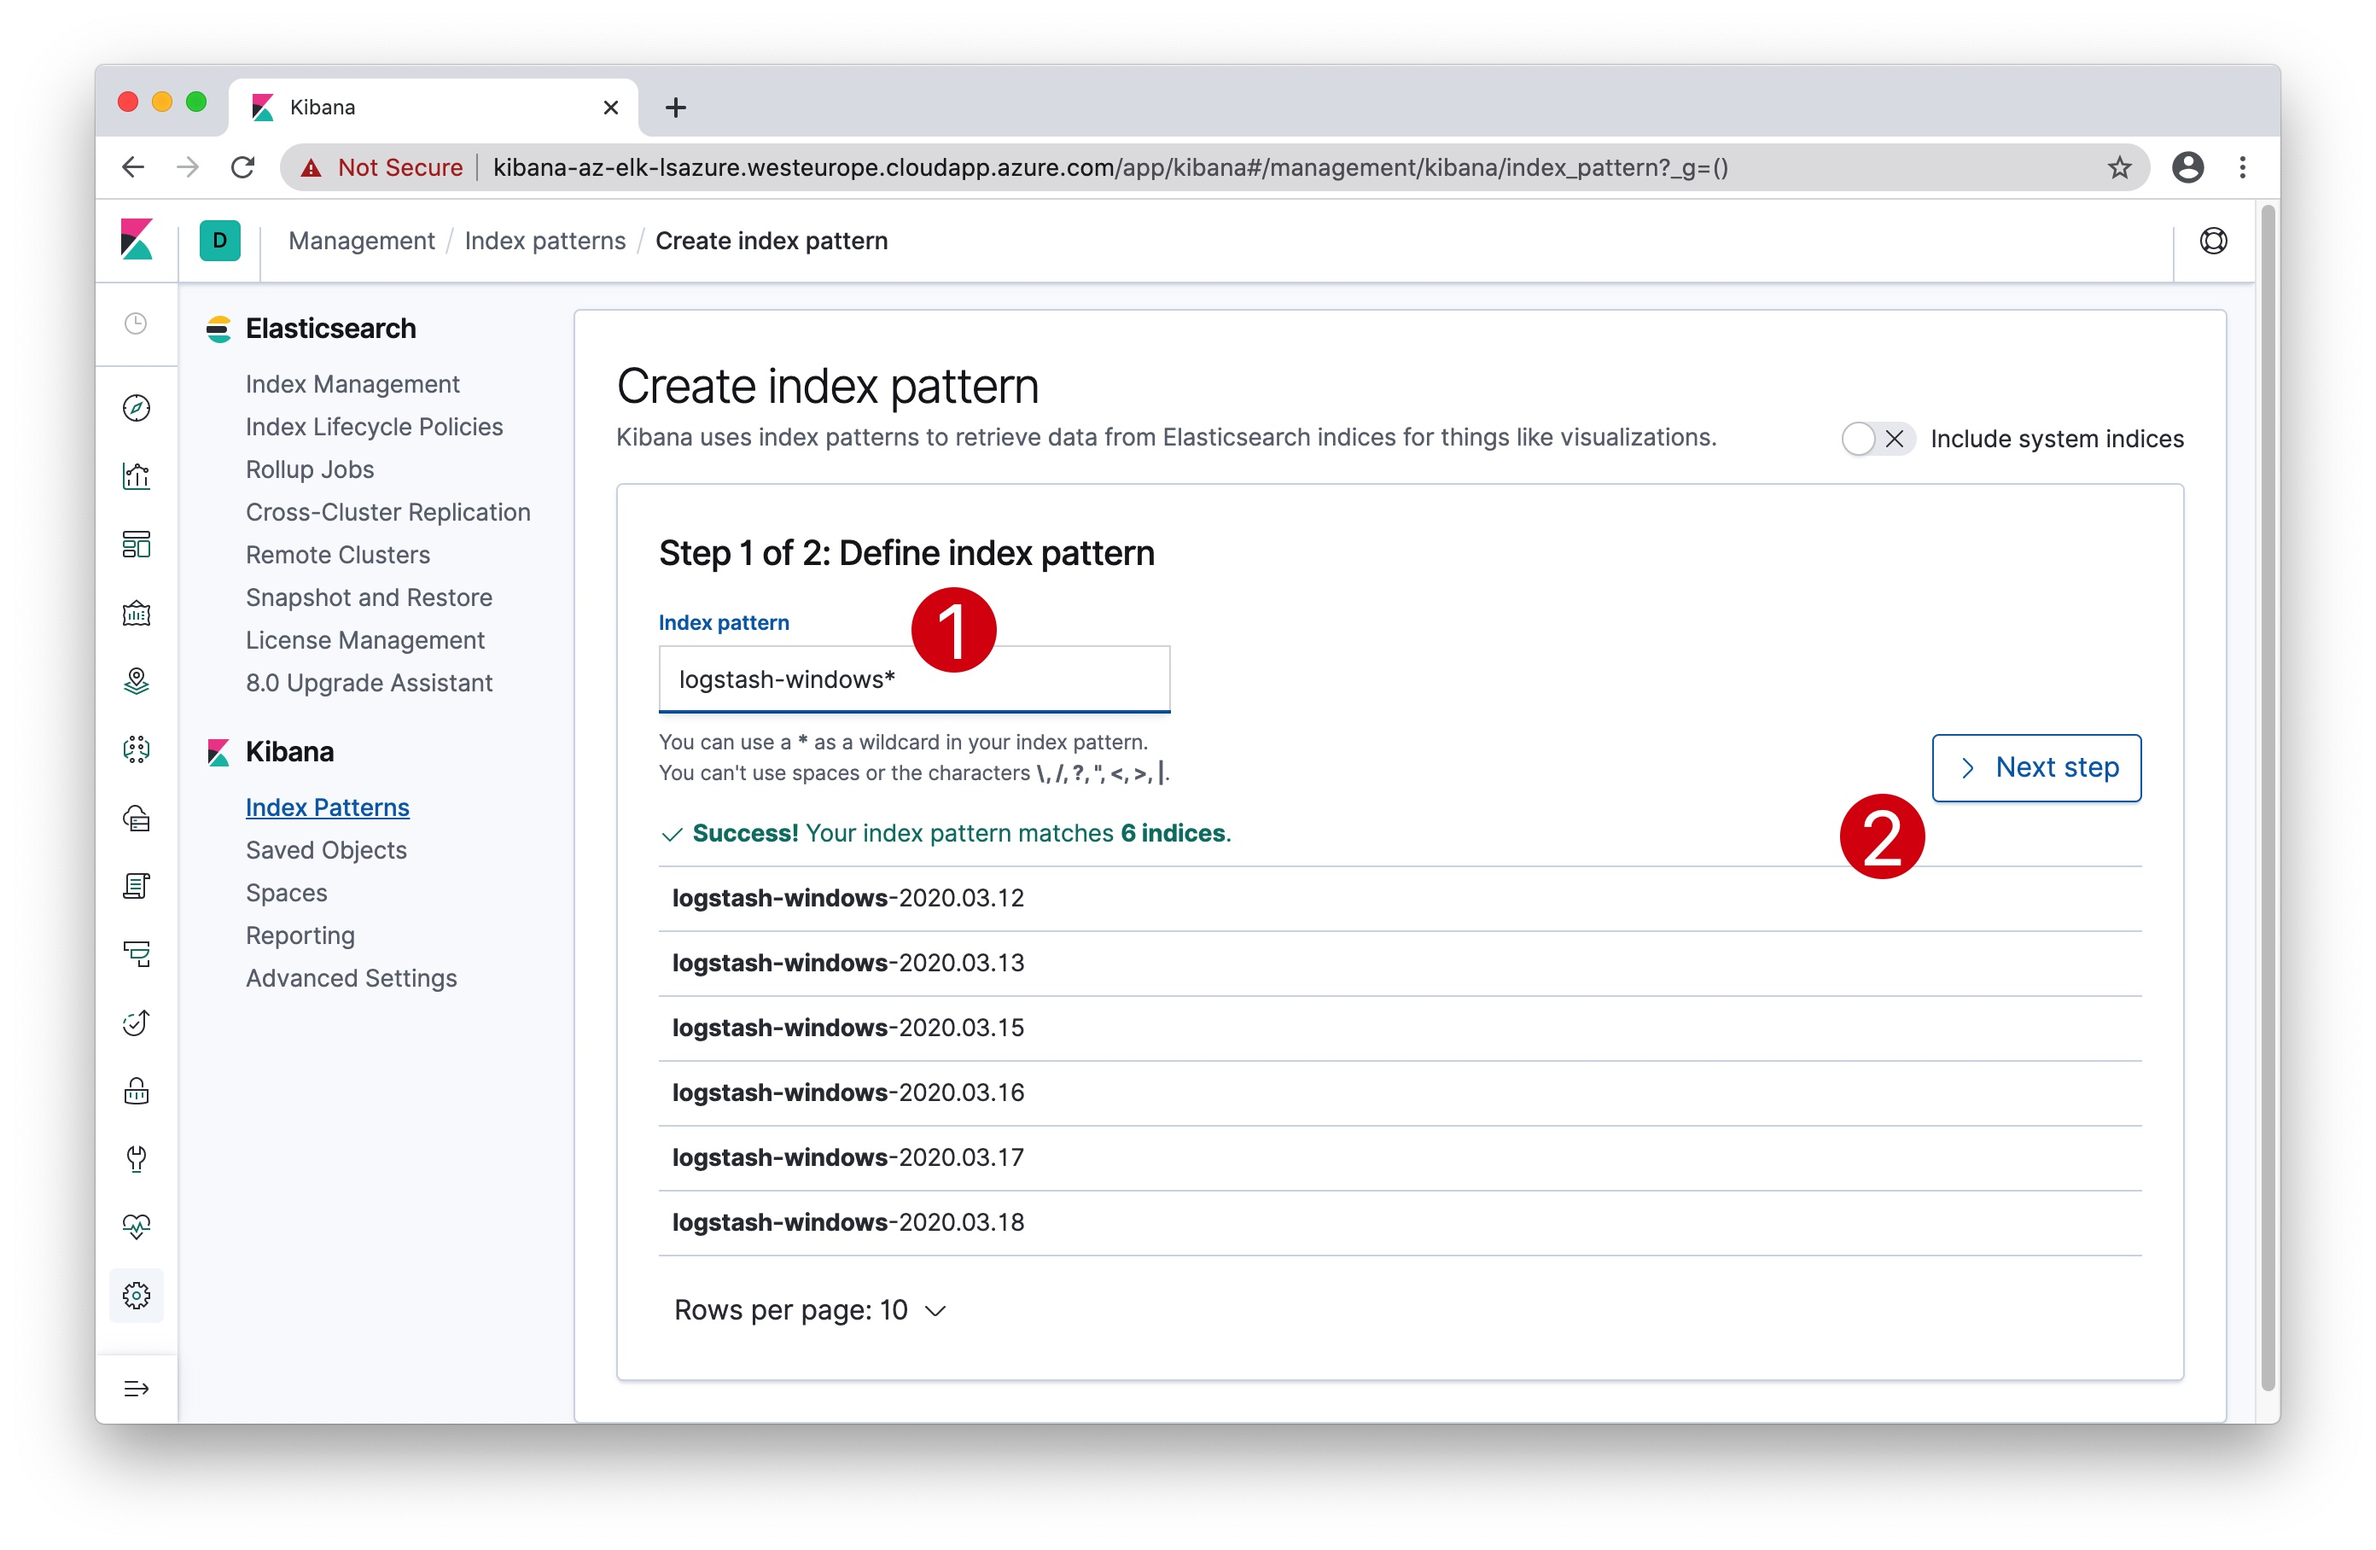
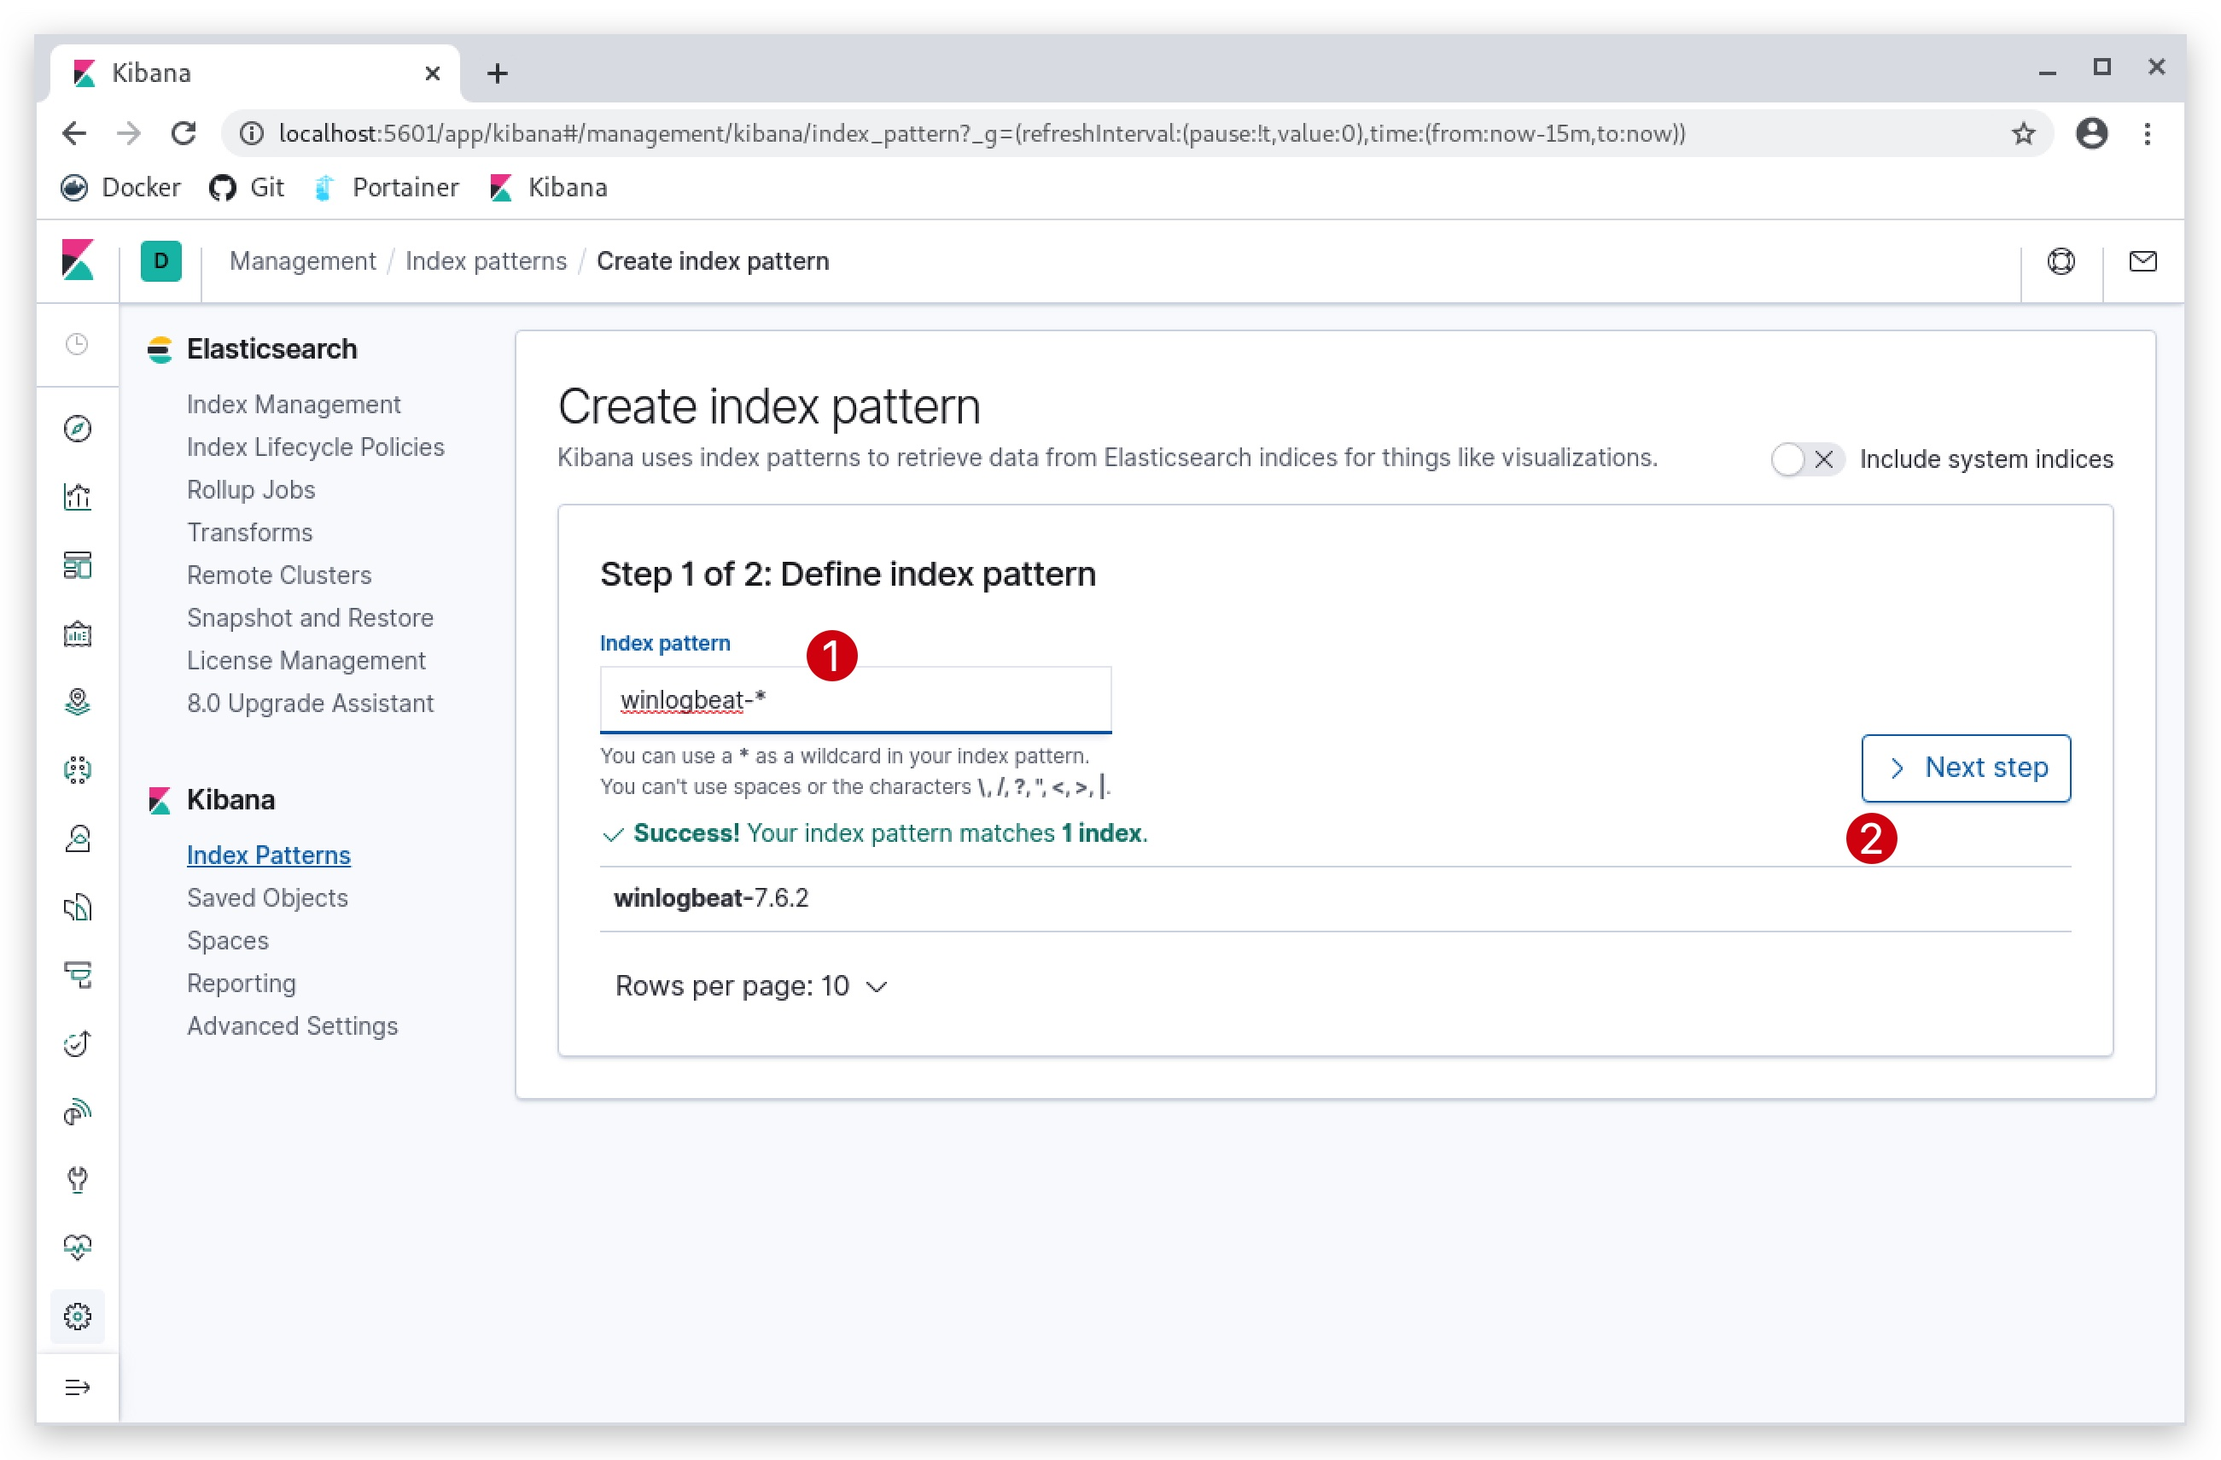
updates

Changed region(s): [[0.0, 0.0, 0.9962, 0.9918], [0.2802, 0.8368, 0.3736, 0.8678]]

diff --git a/src/1.7.1/chapter_1.7.1.md b/src/1.7.1/chapter_1.7.1.md
@@ -9,8 +9,16 @@ The pipeline looks like this:
 
 From your Windows 10 Machine's Winlogbeat Agent -> Logstash (on RabbitMQ server) -> RabbitMQ (on RabbitMQ server). Later on we will configure the student ELK servers to pull the logs from their queue.
 
-- logstash listens on **TCP 5044**
-- RabbitMQ listens on **TCP 5672**
+- logstash listens on **TCP 5044** on 10.0.0.6
+- RabbitMQ listens on **TCP 5672** on 10.0.0.6
+
+1. DOWNLOAD winlogbeat
+---
+
+Let's start by opening powershell open your Windows 10 machine by clicking on the windows logo in the bottom left corner, and just start typing "power":
+
+![Screenshot command](./assets/04-powershell.jpg)
+
 
 open powershell and run as ___administrator___:
 
@@ -21,7 +29,35 @@ Expand-Archive C:\temp\winlogbeat-7.6.2-windows-x86_64.zip -DestinationPath "C:\
 cd "C:\program files\winlogbeat-7.6.2-windows-x86_64"
 dir
 ```
-now install winlogbeat, use powershell copy the 
+
+2. VERIFY the winlogbeat configuration   
+----
+
+We already provided are preconfigured winlogbeat.yml file, located under "C:\threathunt\labsetup\", copy that file to "C:\program files\winlogbeat-7.6.2-windows-x86_64" and verify that the configuration is pointing to the central Logstash/RabbitMQ:
+
+```code
+cp 'C:\threathunt\labsetup\winlogbeat.yml' 'C:\Program Files\winlogbeat-7.6.2-windows-x86_64\'
+```
+
+use notepad++ to edit the winlogbeat.yml file, and let's make sure the config file is correct, edit the ***winlogbeat.yml*** and check that the Logstash output is uncommented and pointing to the RabbitMQ server's (10.0.0.6:5044) Logstash instance:
+
+![Screenshot command](./assets/01-winlogbeat_mq.jpg)  
+
+3. LOAD Elasticsearch templates   
+----
+
+If Winlogbeat has a direct connection and is using Elasticearch as the output, it will automatically load the template. However, if you are using Logstash as the output, you need to manually load the Elasticsearch template. See example command to load the Elasticsearch template manually below:
+
+Before installing and starting the agent - we need to make sure that ***Elastic SIEM*** has the right mappings for the index.
+
+```code
+.\winlogbeat.exe setup --index-management -E output.logstash.enabled=false -E 'output.elasticsearch.hosts=["yourkalimachine:9200"]'
+```
+
+4. INSTALL winlogbeat  
+----
+
+Finally install winlogbeat, use powershell copy the following command.
 
 ```code
 cp C:\threathunt\labsetup\winlogbeat.yml 'C:\Program Files\winlogbeat-7.6.2-windows-x86_64\'
@@ -29,10 +65,6 @@ cp C:\threathunt\labsetup\winlogbeat.yml 'C:\Program Files\winlogbeat-7.6.2-wind
 start-service winlogbeat
 get-service winlogbeat
 ```
-
-Now let's make sure the config file is correct, edit the ***winlogbeat.yml*** and check that the Logstash output is uncommented and pointing to the RabbitMQ server's (10.0.0.6) Logstash instance:
-
-![Screenshot command](./assets/01-winlogbeat_mq.jpg)  
 
 > You can check the logs in the hidden folder C:\ProgramData\winlogbeat\logs 
 
@@ -50,72 +82,7 @@ or
 .\winlogbeat.exe test config -c .\winlogbeat.yml -e
 ```
 
-Connect with `GUACAMOLE SSH` to your Kali Linux, select the right student number that was assigned to you in the beginning of the class:
-
-> **NOTE**: The username and password for the Guacamole server are ***"thadmin" / "PROVIDED_PASSWORD"***. For the RDP/SSH connection your username __and__ password are studentxx. So if you are ***"student04"***, both your username and password for the windows machine will be ***"student04"***.
-
-**Guacamole Username: thadmin**  
-**Guacamole Password : PROVIDED_PASSWORD**
-
-![Screenshot command](./assets/02-guacamole.jpg)
-
-Let's start by opening powershell open your Windows 10 machine by clicking on the windows logo in the bottom left corner, and just start typing "power":
-
-![Screenshot command](./assets/04-powershell.jpg)
-
-Open your web browser (preferably chrome) and surf to http://kibana-az-elk-`lsazure`.westeurope.cloudapp.azure.com/
-
-You will be prompted to authenticate:
-
-**Username:**
-```code
-test
-```
-**Password:**
-```code
-test
-```
-In Kibana:
-
-1. Click on ***"Management"***, the little cogs in the left bottom corner,
-2. then click on ***"Index Patterns"***,
-3. and finally click on ***"Create index pattern"***
-
-![Screenshot command](./assets/03-kibanaindex.jpg)
-
-1. Enter the index name "logstash-windows*"
-2. Click "Next Step"
-
-![Screenshot command](./assets/03-kibanadefine.jpg)
-
-1. Select the "time filter field" and select "@timestamp"
-2. Click on "Create index pattern"
-
-![Screenshot command](./assets/03-kibanatime.jpg)
-
-You have now created your Elastic index, and you will see a screen similar to this:
-
-![Screenshot command](./assets/03-kibanacreated.jpg)
-
-TROUBLESHOOTING WINLOGBEAT CONFIG FILES
-====
-.\winlogbeat.exe test output -e -d "*"  
-
-maybe needed for Elastic SIEM:  
-
-```code
-Invoke-RestMethod -Method Put -ContentType "application/json" -InFile winlogbeat.template.json -Uri http://10.0.0.6:9200/_template/logstash-winlogbeat
-```
-
-Load Elasticsearch templates   
-----
-If Winlogbeat has a direction connection and is using Elasticearch as the output, it will automatically load the template. However, if you are using Logstash as the output, you need to manually load the Elasticsearch template. See example command to load the Elasticsearch template manually below;
-
-```code
-.\winlogbeat.exe setup --index-management -E output.logstash.enabled=false -E 'output.elasticsearch.hosts=["192.168.43.104:9200"]'
-```
-
-Setup Kibana Dashboards
+5. SETUP Kibana Dashboards
 ----
 
 To load Winlogbeat default visualization dashboards, you need to have created the index pattern. Hence, navigate to Kibana and create the Winlogbeat index pattern.  
@@ -139,13 +106,80 @@ OR
 #setup.dashboards.enabled: false
 setup.dashboards.enabled: true
 ```
-If you are using Logstash as the output, run the command below to load the dashboards. 
+If you are using __Logstash__ as the output, run the command below to load the dashboards. 
 
 ```code
 cd C:\'Program Files'\Winlogbeat>  
-.\winlogbeat.exe setup -e -E output.logstash.enabled=false -E output.elasticsearch.hosts=['10.0.0.5:9200']
+.\winlogbeat.exe setup -e -E output.logstash.enabled=false -E output.elasticsearch.hosts=['yourkalimachine:9200']
 ```
 ***source: https://kifarunix.com/send-windows-logs-to-elastic-stack-using-winlogbeat-and-sysmon/***
+
+CREATING your index
+----
+
+If all has gone well, we're now sending windows logs to the central Logstash server, which forwards these logs to all the student queues. Each student is now pulling logs with their own ELK (Kali Linux server) from his/her queue as defined before in the logstash configuration (remember RabbitQueue_StudentXX). 
+
+So let's go into our Kibana interface again and configure the index and have a look at the data lake and ***ELASTIC SIEM***.
+
+Connect with `GUACAMOLE SSH` to your Kali Linux, select the right student number that was assigned to you in the beginning of the class:
+
+> **NOTE**: The username and password for the Guacamole server are ***"thadmin" / "PROVIDED_PASSWORD"***. For the RDP/SSH connection your username __and__ password are studentxx. So if you are ***"student04"***, both your username and password for the windows machine will be ***"student04"***.
+
+**Guacamole Username: thadmin**  
+**Guacamole Password : PROVIDED_PASSWORD**
+
+![Screenshot command](./assets/02-guacamole.jpg)
+
+Open your web browser (preferably chrome) and surf to http://kibana-az-elk-`lsazure`.westeurope.cloudapp.azure.com/
+
+You will be prompted to authenticate:
+
+**Username:**
+```code
+test
+```
+**Password:**
+```code
+test
+```
+In Kibana:
+
+1. Click on ***"Management"***, the little cogs in the left bottom corner,
+2. then click on ***"Index Patterns"***,
+3. and finally click on ***"Create index pattern"***
+
+![Screenshot command](./assets/03-kibanaindex.jpg)
+
+1. Enter the index name "winlogbeat-*"
+2. Click "Next Step"
+
+![Screenshot command](./assets/03-kibanadefine.jpg)
+
+1. Select the "time filter field" and select "@timestamp"
+2. Click on "Create index pattern"
+
+![Screenshot command](./assets/03-kibanatime.jpg)
+
+You have now created your Elastic index, and you will see a screen similar to this:
+
+![Screenshot command](./assets/03-kibanacreated.jpg)
+
+TROUBLESHOOTING WINLOGBEAT CONFIG FILES
+====
+.\winlogbeat.exe test output -e -d "*"  
+
+maybe needed for Elastic SIEM:  
+
+```code
+Invoke-RestMethod -Method Put -ContentType "application/json" -InFile winlogbeat.template.json -Uri http://10.0.0.6:9200/_template/logstash-winlogbeat
+```
+
+```
+.\winlogbeat.exe export template --es.version 7.6.2 | Out-File -Encoding UTF8 winlogbeat.template.json
+Invoke-RestMethod -Method Put -ContentType "application/json" -InFile winlogbeat.template.json -Uri http://192.168.100.199:9200/_template/winlogbeat-7.6.2
+```
+
+
 
 
 

diff --git a/src/1.6.2/chapter_1.6.2.md b/src/1.6.2/chapter_1.6.2.md
@@ -61,7 +61,7 @@ input {
 FILTERS
 ====
 
-
+For now we're not going to put any filters, we will do this later on when we start enriching our logs.
 
 
 OUTPUTS
@@ -75,13 +75,57 @@ output {
     elasticsearch {
       hosts => "es01:9200"
       index => "%{[@metadata][beat]}-%{[@metadata][version]}"
-      #index => "winlogbeat-%{+YYYY.MM.dd}"
     }
   }
 }
 ```
 
+INSTALL
+====
 
+We're going to install Logstash running in a docker container:
 
+```code
+cd /opt/threathunt/docker-compose
+cat docker-compose.logstash.yml
+```
 
+You can have a look at the docker-compose file:
 
+```yml
+version: '3'
+services:
+  logstash:
+    image: crimsoncorelabs/logstashrest
+    container_name: logstash_rest
+    ports:
+     - 5044:5044
+     - 5045:5045
+     - 5046:5046
+    restart: unless-stopped
+    volumes:
+    - /opt/threathunt/logstash/pipeline/:/usr/share/logstash/pipeline/
+    - /opt/threathunt/logstash/config/logstash.yml:/usr/share/logstash/config/logstash.yml
+    - /opt/threathunt/logstash/patterns:/usr/share/logstash/patterns
+    - /opt/threathunt/logstash/pki/:/usr/share/logstash/pki
+    networks:
+      - elastic
+networks:
+  elastic:
+    driver: bridge
+```
+
+To install the Logstash just run the following command:
+
+```code
+cd /opt/threathunt/docker-compose
+sudo docker-compose -f docker-compose.logstash.yml up -d
+```
+
+This will create a logstash node in docker, called ***logstash_rest***. You can go to your [portainer](http://localhost:9000) and check the container.
+
+![Screenshot command](./assets/01-LogstashUp.jpg)
+
+Click on the little "log" icon to the right of the green "running" label - this will show you if logstash is propely running.
+
+![Screenshot command](./assets/01-LogstashLogs.jpg)
